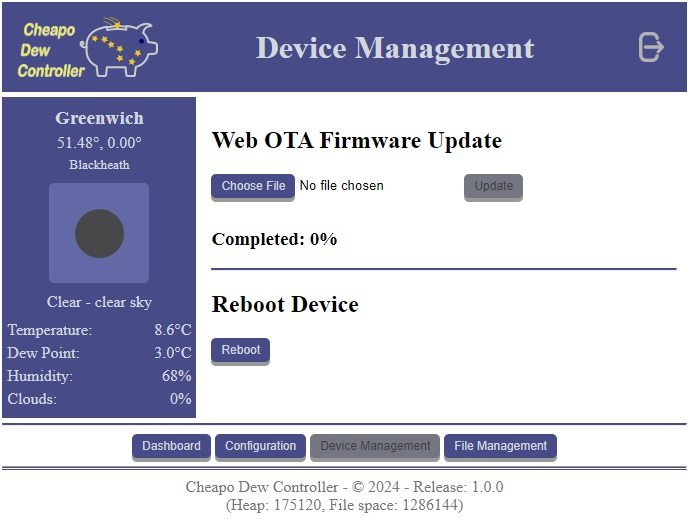
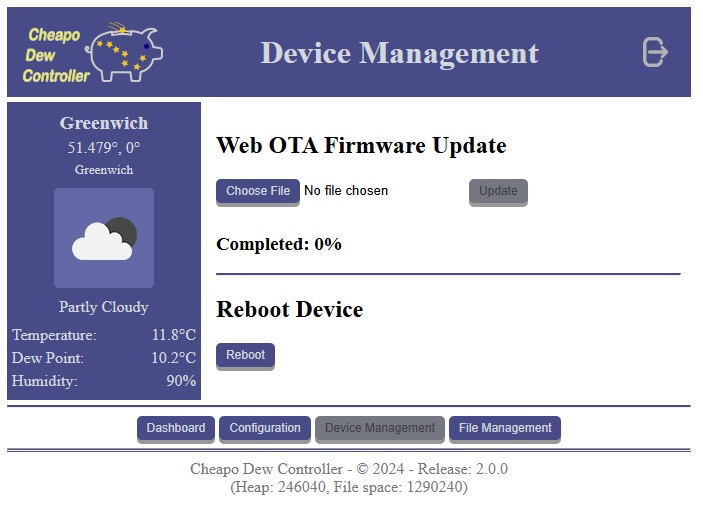
Update documentation. Disable Debug. General clean-up.

Changed region(s): [[0.0, 0.0, 1.0, 1.0], [0.3052, 0.2362, 0.7631, 0.4134], [0.3663, 0.0591, 0.7936, 0.1476]]

diff --git a/CheapoDC/data/listfiles.html b/CheapoDC/data/listfiles.html
@@ -29,7 +29,6 @@
         <div class="wReading"><wReadingTerm>Temperature:</wReadingTerm><wReadingValue>%ATPQ%</wReadingValue></div>
         <div class="wReading"><wReadingTerm>Dew Point:</wReadingTerm><wReadingValue>%DP%</wReadingValue></div>
         <div class="wReading"><wReadingTerm>Humidity:</wReadingTerm><wReadingValue>%HU%</wReadingValue></div>
-        <div class="wReading"><wReadingTerm>Clouds:</wReadingTerm><wReadingValue>%CLC%</wReadingValue></div>
     </aside>
 <footer>
     <br/><hr class="footerThr">

diff --git a/CheapoDC/data/otaindex.html b/CheapoDC/data/otaindex.html
@@ -23,7 +23,6 @@
    <div class="wReading"><wReadingTerm>Temperature:</wReadingTerm><wReadingValue>%ATPQ%</wReadingValue></div>
    <div class="wReading"><wReadingTerm>Dew Point:</wReadingTerm><wReadingValue>%DP%</wReadingValue></div>
    <div class="wReading"><wReadingTerm>Humidity:</wReadingTerm><wReadingValue>%HU%</wReadingValue></div>
-   <div class="wReading"><wReadingTerm>Clouds:</wReadingTerm><wReadingValue>%CLC%</wReadingValue></div>
 </aside>
 <footer>
    <hr class="footerThr">

diff --git a/CheapoDC/CDCdefines.h b/CheapoDC/CDCdefines.h
@@ -100,35 +100,7 @@
 #define CDC_DEFAULT_TIMEZONE 0
 #define CDC_DEFAULT_DSTOFFSET 0
 #define CDC_DEFAULT_NTPSERVER "north-america.pool.ntp.org"
-/*
-// *************************************************************************************
-// Pick your Weather Service
-// *************************************************************************************
-#define CDC_USE_OPEN_WEATHER // Comment out to use Open Meteo
-#ifdef CDC_USE_OPEN_WEATHER
-// *************************************************************************************
-// Open WeatherMap API configuration.
-// Register with OpenWeather for a free account to get your API Key
-// https://home.openweathermap.org/users/sign_up
-// *************************************************************************************
-#define CDC_DEFAULT_WEATHERAPIKEY "" // Register to get an API Key
-#define CDC_DEFAULT_WEATHERSOURCE "OpenWeather"
-#define CDC_DEFAULT_WEATHERAPIURL "https://api.openweathermap.org/data/2.5/weather?lat=%s&lon=%s&appid=%s&units=metric"
-#define CDC_DEFAULT_WEATHERUNITS "metric" // Need metric for temperature calculations to work forced to metric in API string
-#define CDC_DEFAULT_WEATHERICONURL "https://openweathermap.org/img/wn/%s@2x.png"
-//#else
-// *************************************************************************************
-// Open-Meteo API configuration
-// no registration is required so no API key is required
-// *************************************************************************************
-#define CDC_USE_OPEN_METEO
 
-#define CDC_DEFAULT_WEATHERSOURCE OPENMETEO // "Open-Meteo"
-#define CDC_DEFAULT_WEATHERAPIURL "https://api.open-meteo.com/v1/forecast?latitude=%s&longitude=%s&current=temperature_2m,relative_humidity_2m,is_day,weather_code,cloud_cover,wind_speed_10m,wind_direction_10m,dew_point_2m"
-#define CDC_DEFAULT_WEATHERUNITS "metric"                                        // Need metric for temperature calculations to work
-#define CDC_DEFAULT_WEATHERICONURL "https://openweathermap.org/img/wn/%s@2x.png" // reuse the Open Weather Icon API - no API Key required
-#endif
-*/
 // *************************************************************************************
 // Weather Query Service configuration values for supported services
 // - Open-Meteo: https://open-meteo.com/
@@ -145,7 +117,7 @@
 #define CDC_DEFAULT_WEATHERSOURCE 0 // OPENMETEO 
 #define CDC_DEFAULT_WEATHERAPIURL CDC_OPENMETEO_APIURL
 #define CDC_DEFAULT_WEATHERICONURL CDC_OPENWEATHER_ICONURL
-#define CDC_DEFAULT_WEATHERAPIKEY "" // Register to get an API Key if using OpenWeather
+#define CDC_DEFAULT_WEATHERAPIKEY "" 
 #define CDC_DEFAULT_WEATHER_QUERY_EVERY 5
 #define CDC_DEFAULT_HTTP_REQ_RETRY 1
 
@@ -258,8 +230,6 @@
 #define CDC_CMD_IP 43    // IP Address
 #define CDC_CMD_HN 44    // Host name
 #define CDC_CMD_WQEN 45  // Weather Query Enabled (false = 0, true = 1) 
-#define CDC_CMD_LNNQ 46  // External Weather Query Temperture
-#define CDC_CMD_XWQH 47  // External Weather Querry Humidity
 
 // Constants for calculating Dew Point from Temperature & Humidity
 #define CDC_MC_A 17.625
@@ -273,7 +243,7 @@
    If not defined the the level will default to LOG_LEVEL_DEBUG. Everything will get logged
 */
 
-#define LOG_LEVEL LOG_LEVEL_DEBUG
+#define LOG_LEVEL LOG_LEVEL_ERROR
 // #define LOG_FILTER "handleWebsocketMessage,processor,getCmdProcessor,SaveConfig,processClientRequest"
 // #define LOG_FILTER_EXCLUDE
 

diff --git a/CheapoDC/CDCSetup.cpp b/CheapoDC/CDCSetup.cpp
@@ -10,7 +10,6 @@
 #include "FS.h"
 #include <LittleFS.h>
 #include <TimeLib.h>
-//#include <ESP32Time.h>
 #include <WiFi.h>
 #include <WiFiClient.h>
 #include <ESPmDNS.h>
@@ -130,29 +129,13 @@ bool CDCSetup::queryWeather(void)
     if (this->_currentWeatherSource == OPENMETEO)
     {
       JsonObject main = doc["current"];
-      /*
-      String tempTime = main["time"] | String(CDC_BLANK);
-
-      if (tempTime.length() != 0)
-      {
-        sprintf(this->_currentWeather.lastWeatherUpdateTime, CDC_TIME, tempTime.substring(11, 13).toInt(), tempTime.substring(14, 16).toInt());
-        sprintf(this->_currentWeather.lastWeatherUpdateDate, CDC_DATE, monthShortStr(tempTime.substring(5, 7).toInt()), tempTime.substring(8, 10).toInt(), tempTime.substring(0, 4).toInt());
-      }
-      else
-      {
-        strlcpy(this->_currentWeather.lastWeatherUpdateTime, CDC_NA, sizeof(this->_currentWeather.lastWeatherUpdateTime));
-        strlcpy(this->_currentWeather.lastWeatherUpdateDate, CDC_NA, sizeof(this->_currentWeather.lastWeatherUpdateDate));
-      }
-*/
+     
       time_t tempTime = main["time"] | 0;
 
       if (tempTime != 0)
       {
         strlcpy(this->_currentWeather.lastWeatherUpdateTime, this->getTime(tempTime).c_str(), sizeof(this->_currentWeather.lastWeatherUpdateTime));
-        strlcpy(this->_currentWeather.lastWeatherUpdateDate, this->getDate(tempTime).c_str(), sizeof(this->_currentWeather.lastWeatherUpdateDate));
-        //sprintf(this->_currentWeather.lastWeatherUpdateTime, CDC_TIME, hour(tempTime), minute(tempTime), second(tempTime));
-        //sprintf(this->_currentWeather.lastWeatherUpdateDate, CDC_DATE, mydayShortStr[weekday(tempTime) - 1], monthShortStr(month(tempTime)), day(tempTime), year(tempTime));
-      }
+        strlcpy(this->_currentWeather.lastWeatherUpdateDate, this->getDate(tempTime).c_str(), sizeof(this->_currentWeather.lastWeatherUpdateDate));      }
       else
       {
         strlcpy(this->_currentWeather.lastWeatherUpdateTime, CDC_NA, sizeof(this->_currentWeather.lastWeatherUpdateTime));
@@ -189,10 +172,7 @@ bool CDCSetup::queryWeather(void)
       if (tempTime != 0)
       {
         strlcpy(this->_currentWeather.lastWeatherUpdateTime, this->getTime(tempTime).c_str(), sizeof(this->_currentWeather.lastWeatherUpdateTime));
-        strlcpy(this->_currentWeather.lastWeatherUpdateDate, this->getDate(tempTime).c_str(), sizeof(this->_currentWeather.lastWeatherUpdateDate));
-        //sprintf(this->_currentWeather.lastWeatherUpdateTime, CDC_TIME, hour(tempTime), minute(tempTime), second(tempTime));
-        //sprintf(this->_currentWeather.lastWeatherUpdateDate, CDC_DATE, mydayShortStr[weekday(tempTime) - 1], monthShortStr(month(tempTime)), day(tempTime), year(tempTime));
-      }
+        strlcpy(this->_currentWeather.lastWeatherUpdateDate, this->getDate(tempTime).c_str(), sizeof(this->_currentWeather.lastWeatherUpdateDate));      }
       else
       {
         strlcpy(this->_currentWeather.lastWeatherUpdateTime, CDC_NA, sizeof(this->_currentWeather.lastWeatherUpdateTime));
@@ -895,6 +875,7 @@ void CDCSetup::setHumidity(float humidity)
   return;
 }
 
+// Time and Date function
 String CDCSetup::getDateTime()
 {
   char dtBuff[CDC_MAX_DATETIME_STRING] = {};

diff --git a/CheapoDC/CDCWebSrvr.cpp b/CheapoDC/CDCWebSrvr.cpp
@@ -23,13 +23,6 @@ size_t content_len;
 AsyncWebServer * CDCWebServer;
 
 #ifdef CDC_ENABLE_WEB_SOCKETS
-/*
-#if (WS_MAX_QUEUED_MESSAGES < 64)
-#error "WS_MAX_QUEUED_MESSAGES in AsyncWebSocket.h must be set to 64 or higher to handle web socket queue properly!"
-#endif
-#define CONFIG_ESP_INT_WDT_TIMEOUT_MS 600
-#define CONFIG_ESP_TASK_WDT_TIMEOUT_S 10
-*/
 AsyncWebSocket * CDCWebSocket;
 #endif
 AsyncServer * CDCTCPServer;
@@ -140,11 +133,15 @@ void handleDoFileUpload(AsyncWebServerRequest *request, const String& filename, 
 // File download processor
 void processDownload(AsyncWebServerRequest *request ) {
   AsyncWebParameter* p = request->getParam("file");
+  File file = LittleFS.open(p->value().c_str(), FILE_READ);
 
   LOG_DEBUG("processDownload", "p.name: " << p->name().c_str());
   LOG_DEBUG("processDownload", "p.value: " << p->value().c_str());
 
-  request->send(LittleFS, p->value().c_str(), String(), true);
+  request->send(file, p->value().c_str(), String(), true);
+
+  file.close();
+  
 }
 
 // File deletion processor

diff --git a/README.md b/README.md
@@ -179,9 +179,12 @@ The APIs use the same commands which are listed in the top of [CDCommands.cpp](/
 The table below provides a list of the commands but the code is the final correct source of truth here.
 * String maximum lengths are identified in the table.
 * Floats are truncated to 2 decimal places.
-* All commands support getter API methods.
-* Commands supporting a setter method are identified. 
+* All commands except **QN** support getter API methods. 
 * The **QN** command is a setter only command. It requires a value that is not Null. "NA" works.
+* Commands supporting a setter method are identified.
+* The **ATPQ** and **HU** commands are only setter commands when Weather Source is set to External Source.
+* Date and time responses are in local time based on the Time Zone Offset and DST Offset values.
+* The **CLC** command has been depricated.
 * Using an invalid command or trying a setter on a command not supporting a setter will return an error.
 * Strictly speaking command values are always treated as Strings since the values are always enclosed in quotes in the JSON. Conversion to appropriate type is handled internally.
 #### CheapoDC Commands
@@ -190,23 +193,23 @@ The table below provides a list of the commands but the code is the final correc
 |   TMFL   |&cross;|  HTML    | String [*] |   File list in HTML for use in Web UI |
 |   WICON  |&cross;|  None    | String [4] |   Weather Icon for use with OpenWeather |
 |   WDESC  |&cross;|  None    | String [32]|   Weather description |
-|   ATPQ   |&cross;|  &deg;C    | Float |   Ambient temperature from weather query |
-|    HU    |&cross;|  &percnt;    | Integer |   Relative humidity (0 to 100)|
+|   ATPQ   |&check;|  &deg;C    | Float |   Ambient temperature from weather query<br>Settable when Weather Source is set to External Source |
+|    HU    |&check;|  &percnt;    | Integer |   Relative humidity (0 to 100)<br>Settable when Weather Source is set to External Source. |
 |    DP    |&cross;|  &deg;C    | Float |   Dew point|
 |    SP    |&check;|  &deg;C    | Float |   Temperature set point|
 |    TPO   |&check;|  &deg;C    | Float |   Track Point offset (-5.0 to 5.0)|
 |    TKR   |&check;|  &deg;C    | Float |   Tracking range (4.0 to 10.0)|
-|    DCO   |&check;|  &percnt;    | Float |   Dew Controller Output (0 to 100)|
-|    WS    |&cross;|  None    | String [32] |   Weather source (OpenWeather or Open-Meteo)|
+|    DCO   |&check;|  &percnt;    | Float |   Dew Controller Output (0 to 100)<br>Settable when Dew Controller Mode set to Manual. |
+|    WS    |&check;|  None    | ENUM |   Weather source <br>Open-Meteo = 0<br>OpenWeather = 1<br>External Source = 2|
 |    LQT   |&cross;|  None    | String [32] |   Last weather query time|
 |    LQD   |&cross;|  None    | String [32] |   Last weather query date|
 |    QN    |&check;|  None    | String [4] |   Query weather now (Set only command)|
 |    FW    |&cross;|  None    | String [16] |   firmware version|
 |    HP    |&cross;|  Bytes    | Integer |   Heap size|
 |    LFS   |&cross;|  Bytes    | Integer |   LittleFS remaining space|
-|    DCM   |&check;| Enum    | Enum |   Dew controller mode|
-|   DCTM   |&check;| Enum    | Float |   Dew controller temperature mode|
-|    SPM   |&check;| Enum    | Float |   Dew controller set point mode|
+|    DCM   |&check;| Enum    | Enum |   Dew controller mode<br>Automatic = 0<br>Manual = 1<br>Off = 2|
+|   DCTM   |&check;| Enum    | Enum |   Dew controller temperature mode<br>Weather Query = 0<br>External Input = 1 |
+|    SPM   |&check;| Enum    | Enum |   Dew controller set point mode<br>Dew Point = 0<br>Temperature = 1<br>Midpoint = 2 |
 |    WQE   |&check;|  Minutes    | Integer |   Weather query every|
 |    UOE   |&check;|  Minutes    | Integer |   update output every|
 |   WAPI   |&check;|  None    | String [256] |   Weather API URL|
@@ -225,13 +228,14 @@ The table below provides a list of the commands but the code is the final correc
 |   ATPX   |&check;|  &deg;C    | Float |   External Temperature input by external app|
 |    CTP   |&cross;|  &deg;C    | Float |   Current Track Point Temperature|
 |    WUL   |&cross;|  None    | String [32] |   Weather station reported in query|
-|    CLC   |&cross;|  &percnt;    | Integer |   Cloud Coverage in percent|
-|   LWUT   |&cross;|  None    | String [32] |   Last weather update time|
-|   LWUD   |&cross;|  None    | String [32] |   Last weather update date|
-|    UPT   |&cross;|  None    | Integer |   Device uptime in hhh:mm:ss:msec|
+|  ~~CLC~~ |&cross;|  &percnt;    | ~~Integer~~ |   ***Deprecated***|
+|   LWUT   |&cross;| None    | String [32] |   Last weather update time<br>hh:mm:ss|
+|   LWUD   |&cross;|  None  | String [32] |   Last weather update date<br>DDD, dd MMM yyyy|
+|    UPT   |&cross;|  None    | Integer |   Device uptime<br>hhh:mm:ss:msec|
 |   WIFI   |&cross;|  None    | String [4] |   WIFI mode AP (Access Point) or STA (Station Mode)|
 |    IP    |&cross;|  None    | String [16] |   IP Address|
 |    HN    |&cross;|  None | String [16] |   Host name |
+|    WQEN    |&check;|  None | Bool | Web Query Enabled<br>False = 0<br>True = 1|
 
 ### TCP API
 The TCP API uses JSON formatted commands over TCP on port 58000. JSON strings must always be terminated with a newline character "\n". "cmd" in the following formats is the 2 to 4 character command identified in [CDCommands.cpp](/CheapoDC/CDCommands.cpp).
@@ -269,4 +273,6 @@ See the Configuration Files section in [Building and Installing CheapoDC](./Chea
 
 ## [INDI Driver](#indi-driver)
 An INDI driver is now available in the master branch as of INDI release 2.0.7, April 1, 2024. Details should become available on the [INDI website devices list](https://www.indilib.org/devices.html) as well as the [StellarMate website devices list](https://www.stellarmate.com/devices.html).
+
+Driver version 1.1 supports the latest versions of the CheapoDC firmware adding support for Weather Device integration.
 
